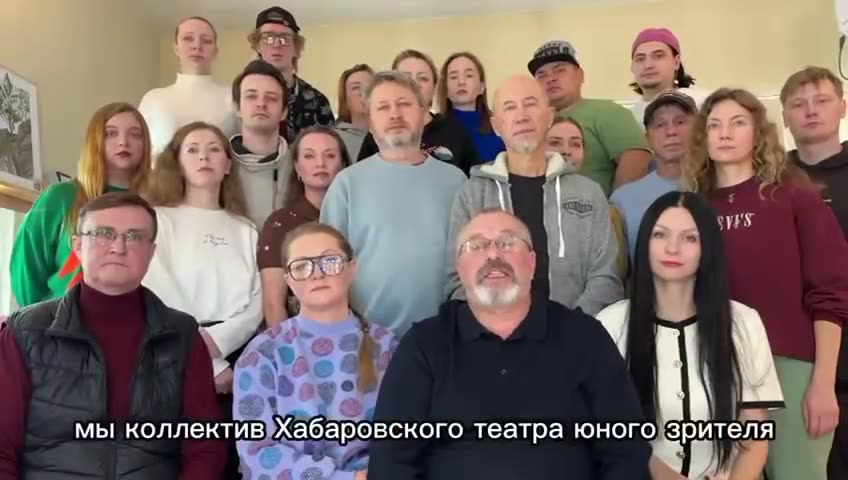
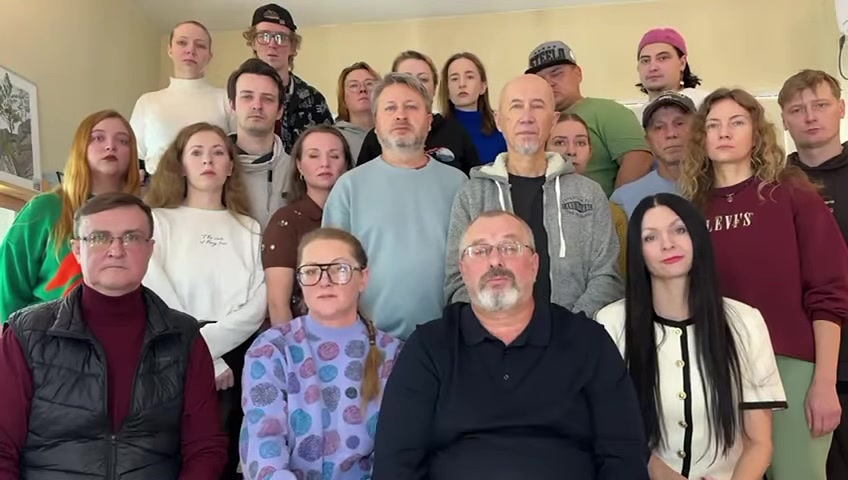
Texts

Changed region(s): [[0.0, 0.0, 1.0, 1.0], [0.9811, 0.6875, 1.0, 0.7188]]

diff --git a/index.html b/index.html
@@ -1,17 +1,152 @@
 <!DOCTYPE html>
 <html lang="ru">
+
 <head>
-  <meta charset="utf-8">
-  <meta name="viewport" content="width=device-width, initial-scale=1">
-  <title>mi-tuz-xa.ru</title>
-  <style>
-    body { margin: 0; padding: 16px; font-family: system-ui, sans-serif; }
-    video { display: block; width: 100%; max-width: 960px; height: auto;
-            aspect-ratio: 848 / 480; margin: 0 auto; background: #000; }
-  </style>
+    <meta charset="utf-8">
+    <meta name="viewport" content="width=device-width, initial-scale=1">
+    <title>mi-tuz-xa.ru</title>
+    <meta name="theme-color" content="#4b0000">
+    <link rel="preconnect" href="https://fonts.googleapis.com">
+    <link rel="preconnect" href="https://fonts.gstatic.com" crossorigin>
+    <link href="https://fonts.googleapis.com/css2?family=PT+Sans+Narrow:wght@400;700&display=swap" rel="stylesheet">
+    <style>
+        :root {
+            --primary: #7c2529;
+            --primary-light: #af5351;
+            --primary-dark: #4b0000;
+            --secondary: #f1e9e4;
+        }
+
+        html,
+        body {
+            margin: 0;
+        }
+
+        body {
+            background: var(--secondary);
+            color: var(--primary-dark);
+            font-family: -apple-system, BlinkMacSystemFont, "Segoe UI", Roboto,
+                "Helvetica Neue", Arial, sans-serif;
+            line-height: 1.5;
+            padding: 24px 16px;
+        }
+
+        h1,
+        h2,
+        h3,
+        h4 {
+            font-family: "PT Sans Narrow", sans-serif;
+        }
+
+        a {
+            color: var(--primary-dark);
+            text-decoration: none;
+            border-bottom: 1px solid var(--primary-dark);
+        }
+
+        a:hover {
+            border-bottom-width: 2px;
+        }
+
+        main {
+            max-width: 960px;
+            margin: 0 auto;
+            padding: 16px;
+        }
+
+        video {
+            display: block;
+            width: 100%;
+            height: auto;
+            aspect-ratio: 848 / 480;
+            background: #000;
+        }
+
+        h1 {
+            font-size: 2rem;
+            line-height: 1.15;
+            margin: 0 0 12px;
+        }
+
+        .gap {
+            margin-top: 28px;
+        }
+
+        .lead {
+            font-size: 1.1rem;
+            margin: 0 0 16px;
+        }
+
+        ul {
+            padding-left: 1.2em;
+        }
+
+        li {
+            margin: 4px 0;
+        }
+
+        .cta {
+            margin-top: 28px;
+            padding: 14px 16px;
+            background: #fff;
+            border-left: 4px solid var(--primary);
+            font-weight: 600;
+        }
+    </style>
 </head>
+
 <body>
-  <video src="media/reel-web.mp4" poster="media/reel-poster.jpg"
-         controls playsinline preload="metadata"></video>
+    <main>
+        <h1>Обращение коллектива Хабаровского ТЮЗа</h1>
+        <p class="lead">Коллектив Хабаровского театра юного зрителя обращается к губернатору
+            Хабаровского края Д.&nbsp;В.&nbsp;Демешину, министру культуры РФ О.&nbsp;Б.&nbsp;Любимовой
+            и ко всей театральной общественности.</p>
+
+        <video src="media/reel-web.mp4" poster="media/reel-poster.jpg" controls playsinline preload="metadata"></video>
+
+        <p class="gap"><strong>29 октября 2026 года</strong> директор театра подписал приказ
+            о сокращении девяти должностей творческого состава. С 1 января 2027 года
+            будут уволены:</p>
+        <ul>
+            <li>художественный руководитель Константин Кучикин;</li>
+            <li>заведующая литературной частью Анна Шавгарова — единственный
+                на Дальнем Востоке театровед такого уровня;</li>
+            <li>режиссёр-постановщик Ольга Подкорытова — единственный режиссёр в театре;</li>
+            <li>педагог по речи Елена Дьячкова;</li>
+            <li>ассистент режиссёра Александр Зверев.</li>
+        </ul>
+        <p>Кроме того, сокращаются ставки художника-модельера, бутафора
+            и музыкального руководителя.</p>
+
+        <p class="gap"><strong>Мы не понимаем</strong>, чем продиктовано решение убрать из театра именно творческий состав.</p>
+        <ul>
+            <li>Именно при этой команде театр получил «Золотую маску», «Арлекин»,
+                премию Корша, две премии Правительства РФ и много других наград.</li>
+            <li>В театре есть вакантные ставки, которые можно было сократить вместо
+                работающих специалистов.</li>
+            <li>Губернатор говорил об оптимизации бюджета за счёт руководящего звена
+                и о недопустимости сокращений среднего и исполнительского звена.
+                Здесь же сокращают творческий состав, а число начальников остаётся прежним.</li>
+            <li>За три года работы нового директора из театра ушли 12 ценных специалистов,
+                а конфликт между администрацией и коллективом длится уже два года.
+                Обращения в Министерство культуры результата не дали.</li>
+        </ul>
+        <p>Коллектив считает, что под видом сокращения происходит сведение счетов
+            и разрушение художественной основы театра, который долгие годы был гордостью
+            края и одним из лучших театров России.</p>
+
+        <p class="gap"><strong>Мы просим:</strong></p>
+        <ul>
+            <li>Губернатора — взять ситуацию под личный контроль и лично встретиться
+                с коллективом для открытого разговора.</li>
+            <li>Министра культуры — обратить внимание на проблему.</li>
+            <li>Приостановить приказ о сокращении до проверки того, соответствуют ли
+                кадровые решения интересам театра и распоряжению губернатора.</li>
+        </ul>
+
+        <p class="gap"><strong>Пожалуйста, поделитесь этой страницей</strong>
+            и поддержите наше обращение.</p>
+    </main>
 </body>
+
 </html>
